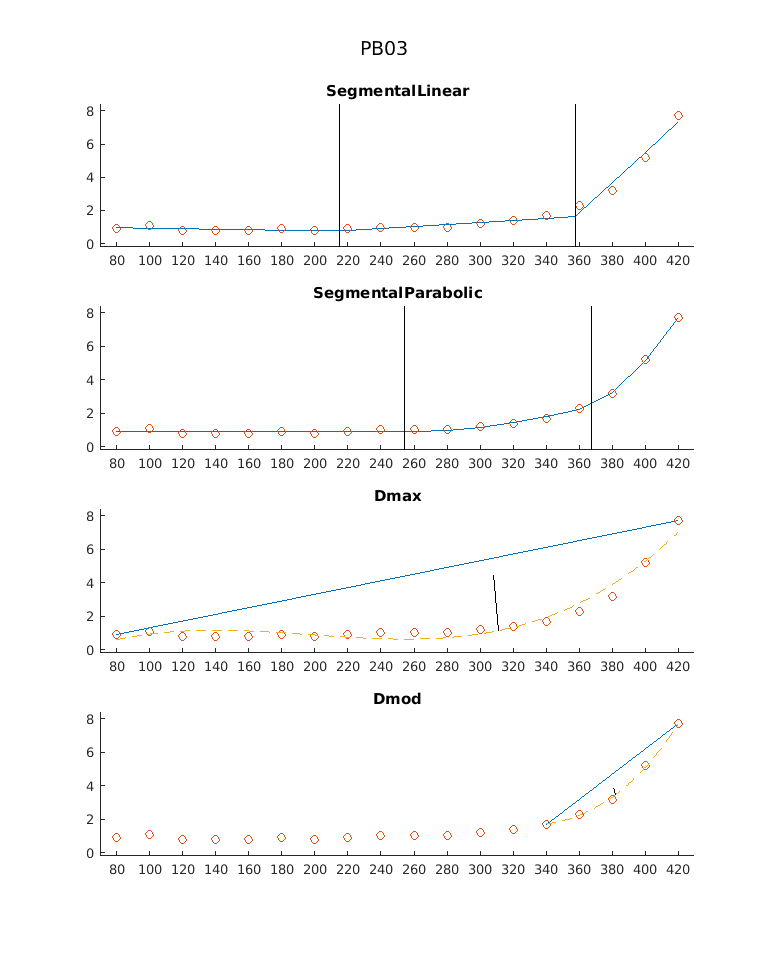
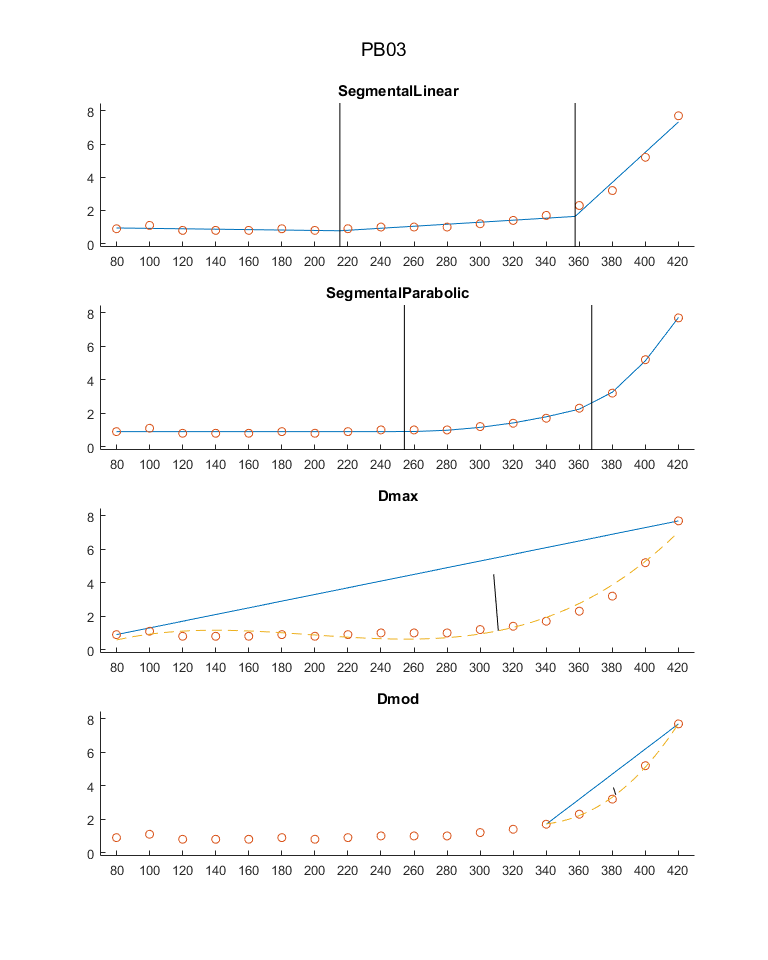
readme extended

diff --git a/lactate/LactateThreshold2.html b/lactate/LactateThreshold2.html
@@ -6,7 +6,7 @@
    <!--
 This HTML was auto-generated from MATLAB code.
 To make changes, update the MATLAB code and republish this document.
-      --><title>LactateThreshold2</title><meta name="generator" content="MATLAB 9.1"><link rel="schema.DC" href="http://purl.org/dc/elements/1.1/"><meta name="DC.date" content="2017-03-15"><meta name="DC.source" content="LactateThreshold2.m"><style type="text/css">
+      --><title>LactateThreshold2</title><meta name="generator" content="MATLAB 9.2"><link rel="schema.DC" href="http://purl.org/dc/elements/1.1/"><meta name="DC.date" content="2017-05-24"><meta name="DC.source" content="LactateThreshold2.m"><style type="text/css">
 html,body,div,span,applet,object,iframe,h1,h2,h3,h4,h5,h6,p,blockquote,pre,a,abbr,acronym,address,big,cite,code,del,dfn,em,font,img,ins,kbd,q,s,samp,small,strike,strong,sub,sup,tt,var,b,u,i,center,dl,dt,dd,ol,ul,li,fieldset,form,label,legend,table,caption,tbody,tfoot,thead,tr,th,td{margin:0;padding:0;border:0;outline:0;font-size:100%;vertical-align:baseline;background:transparent}body{line-height:1}ol,ul{list-style:none}blockquote,q{quotes:none}blockquote:before,blockquote:after,q:before,q:after{content:'';content:none}:focus{outine:0}ins{text-decoration:none}del{text-decoration:line-through}table{border-collapse:collapse;border-spacing:0}
 
 html { min-height:100%; margin-bottom:1px; }
@@ -70,7 +70,7 @@ table td { padding:7px 5px; text-align:left; vertical-align:top; border:1px soli
 close <span class="string">all</span>;
 </pre><h2 id="2">files</h2><pre class="codeinput">datafile = <span class="string">'Stufentest_laktat_leistung.csv'</span>;
 </pre><h2 id="3">import</h2><pre class="codeinput">data = importLactate(datafile);
-</pre><h2 id="4">data</h2><pre class="codeinput">subs = {<span class="string">'PB03'</span> ; <span class="string">'PB05'</span> ; <span class="string">'PB06'</span> ; <span class="string">'PB08'</span> ; <span class="string">'PB09'</span>};
+</pre><h2 id="4">data</h2><pre class="codeinput">subs = {<span class="string">'PB03'</span> ; <span class="string">'PB05'</span> ; <span class="string">'PB06'</span> ; <span class="string">'PB08'</span> ; <span class="string">'PB09'</span> ; <span class="string">'Average'</span>};
 steps = data(1,:)';
 PB03 = data(3,:)'; PB03 = PB03(~isnan(PB03));
 PB05 = data(5,:)'; PB05 = PB05(~isnan(PB05));
@@ -78,12 +78,11 @@ PB06 = data(6,:)'; PB06 = PB06(~isnan(PB06));
 PB08 = data(8,:)'; PB08 = PB08(~isnan(PB08));
 PB09 = data(9,:)'; PB09 = PB09(~isnan(PB09));
 subj_data = {PB03 , PB05 , PB06 , PB08 , PB09}';
-Used_LT = [380 ; 240 ; 260 ; 200 ; 220];
 </pre><h2 id="5">estimate thresholds</h2><pre class="codeinput">LT1 = zeros(size(subj_data));
-Mader = zeros(size(subj_data));
+Heck = zeros(size(subj_data));
 SegLin = zeros(size(subj_data));
 SegPara = zeros(size(subj_data));
-Guidetti = zeros(size(subj_data));
+Baldari = zeros(size(subj_data));
 Dickhuth = zeros(size(subj_data));
 Dmax = zeros(size(subj_data));
 Dmod = zeros(size(subj_data));
@@ -91,8 +90,8 @@ Dmod = zeros(size(subj_data));
     f = figure(<span class="string">'Name'</span>,subs{i});
     set(f, <span class="string">'Units'</span>, <span class="string">'normalized'</span>, <span class="string">'Position'</span>, [0.1, 0.1, 0.4, 0.8]);
     LT1(i) = lacT1(steps, subj_data{i});
-    Mader(i) = maderLT(steps, subj_data{i});
-    Guidetti(i) = iat(steps, subj_data{i});
+    Heck(i) = maderLT(steps, subj_data{i});
+    Baldari(i) = iat(steps, subj_data{i});
     Dickhuth(i) = dick(steps, subj_data{i});
     SegLin(i) = twoLTlin(steps, subj_data{i});
     SegPara(i) = twoLTpara(steps, subj_data{i});
@@ -100,37 +99,31 @@ Dmod = zeros(size(subj_data));
     Dmod(i) = dmod(steps, subj_data{i});
     suptitle(subs{i});
 <span class="keyword">end</span>
-</pre><img vspace="5" hspace="5" src="LactateThreshold2_01.png" alt=""> <img vspace="5" hspace="5" src="LactateThreshold2_02.png" alt=""> <img vspace="5" hspace="5" src="LactateThreshold2_03.png" alt=""> <img vspace="5" hspace="5" src="LactateThreshold2_04.png" alt=""> <img vspace="5" hspace="5" src="LactateThreshold2_05.png" alt=""> <h2 id="6">results</h2><pre class="codeinput">mean = mean([Mader,Guidetti,Dickhuth,SegLin,SegPara,Dmax,Dmod],2);
-std = std([Mader,Guidetti,Dickhuth,SegLin,SegPara,Dmax,Dmod],0,2);
-Mader = round(Mader);
-Guidetti = round(Guidetti);
-Dickhuth = round(Dickhuth);
-SegLin = round(SegLin);
-SegPara = round(SegPara);
-Dmax = round(Dmax);
-Dmod = round(Dmod);
+</pre><img vspace="5" hspace="5" src="LactateThreshold2_01.png" alt=""> <img vspace="5" hspace="5" src="LactateThreshold2_02.png" alt=""> <img vspace="5" hspace="5" src="LactateThreshold2_03.png" alt=""> <img vspace="5" hspace="5" src="LactateThreshold2_04.png" alt=""> <img vspace="5" hspace="5" src="LactateThreshold2_05.png" alt=""> <h2 id="6">results</h2><pre class="codeinput">Heck = [round(Heck) ; round(mean(Heck))];
+Baldari = [round(Baldari); round(mean(Baldari ))];
+Dickhuth = [round(Dickhuth); round(mean(Dickhuth))];
+SegLin = [round(SegLin); round(mean(SegLin))];
+SegPara = [round(SegPara); round(mean(SegPara))];
+Dmax = [round(Dmax); round(mean(Dmax))];
+Dmod = [round(Dmod); round(mean(Dmod))];
+mean = mean([Heck,Baldari,Dickhuth,SegLin,SegPara,Dmax,Dmod],2);
+std = std([Heck,Baldari,Dickhuth,SegLin,SegPara,Dmax,Dmod],0,2);
 mean_minus_std = round(mean - std);
 mean_plus_std = round(mean + std);
 mean = round(mean);
 std = round(std);
-fits = cell(size(subj_data));
-<span class="keyword">for</span> i = 1:length(subj_data)
-   <span class="keyword">if</span>  (mean_minus_std(i) &lt;= Used_LT(i)) &amp;&amp; (mean_plus_std(i) &gt;= Used_LT(i))
-       fits{i} = <span class="string">'x'</span>;
-   <span class="keyword">else</span>
-       fits{i} = <span class="string">''</span>;
-   <span class="keyword">end</span>
-<span class="keyword">end</span>
-T = table(Used_LT,Mader,Guidetti,Dickhuth,SegLin,SegPara,Dmax,Dmod,mean,std,mean_minus_std,mean_plus_std,fits,<span class="string">'RowNames'</span>,subs);
+<span class="comment">%T = table(Heck,Baldari,Dickhuth,SegLin,SegPara,Dmax,Dmod,mean,std,mean_minus_std,mean_plus_std,'RowNames',subs);</span>
+T = table(Heck,Baldari,Dickhuth,SegLin,SegPara,Dmax,Dmod,mean,std,<span class="string">'RowNames'</span>,subs);
 disp(T);
-</pre><pre class="codeoutput">            Used_LT    Mader    Guidetti    Dickhuth    SegLin    SegPara    Dmax    Dmod    mean    std    mean_minus_std    mean_plus_std    fits
-            _______    _____    ________    ________    ______    _______    ____    ____    ____    ___    ______________    _____________    ____
+</pre><pre class="codeoutput">               Heck    Baldari    Dickhuth    SegLin    SegPara    Dmax    Dmod    mean    std
+               ____    _______    ________    ______    _______    ____    ____    ____    ___
 
-    PB03    380        388      360         380         357       368        311     382     364     26     338               390              'x' 
-    PB05    240        283      260         272         253       236        225     276     258     21     236               279              'x' 
-    PB06    260        267      220         251         258       259        225     262     249     19     230               268              'x' 
-    PB08    200        215      180         203         219       214        194     224     207     16     191               222              'x' 
-    PB09    220        220      200         212         218       223        195     226     213     12     202               225              'x' 
+    PB03       388     360        380         357       368        311     382     364     26 
+    PB05       283     260        272         253       236        225     276     258     21 
+    PB06       267     220        251         258       259        225     262     249     19 
+    PB08       215     180        203         219       214        194     224     207     16 
+    PB09       220     200        212         218       223        195     226     213     12 
+    Average    275     244        263         261       260        230     274     258     16 
 
 </pre><h2 id="7">algorithms</h2><pre class="codeinput"><span class="keyword">function</span> pLT = maderLT(power, lactate)
 pLT = NaN;
@@ -327,7 +320,7 @@ p = x(1); a1 = x(2); a2 = x(3); d1 = x(4); d2 = x(5); <span class="comment">%#ok
     la = p + a1*(power-d1)^2 + 2*a1*(d2-d1)*(power-d2) + a2*(power-d2)^2;
 <span class="keyword">end</span>
 <span class="keyword">end</span>
-</pre><p class="footer"><br><a href="http://www.mathworks.com/products/matlab/">Published with MATLAB&reg; R2016b</a><br></p></div><!--
+</pre><p class="footer"><br><a href="http://www.mathworks.com/products/matlab/">Published with MATLAB&reg; R2017a</a><br></p></div><!--
 ##### SOURCE BEGIN #####
 clearvars;
 close all;
@@ -339,7 +332,7 @@ datafile = 'Stufentest_laktat_leistung.csv';
 data = importLactate(datafile);
 
 %% data
-subs = {'PB03' ; 'PB05' ; 'PB06' ; 'PB08' ; 'PB09'};
+subs = {'PB03' ; 'PB05' ; 'PB06' ; 'PB08' ; 'PB09' ; 'Average'};
 steps = data(1,:)';
 PB03 = data(3,:)'; PB03 = PB03(~isnan(PB03));
 PB05 = data(5,:)'; PB05 = PB05(~isnan(PB05));
@@ -347,14 +340,13 @@ PB06 = data(6,:)'; PB06 = PB06(~isnan(PB06));
 PB08 = data(8,:)'; PB08 = PB08(~isnan(PB08));
 PB09 = data(9,:)'; PB09 = PB09(~isnan(PB09));
 subj_data = {PB03 , PB05 , PB06 , PB08 , PB09}';
-Used_LT = [380 ; 240 ; 260 ; 200 ; 220];
 
 %% estimate thresholds
 LT1 = zeros(size(subj_data));
-Mader = zeros(size(subj_data));
+Heck = zeros(size(subj_data));
 SegLin = zeros(size(subj_data));
 SegPara = zeros(size(subj_data));
-Guidetti = zeros(size(subj_data));
+Baldari = zeros(size(subj_data));
 Dickhuth = zeros(size(subj_data));
 Dmax = zeros(size(subj_data));
 Dmod = zeros(size(subj_data));
@@ -362,8 +354,8 @@ for i = 1:length(subj_data)
     f = figure('Name',subs{i});
     set(f, 'Units', 'normalized', 'Position', [0.1, 0.1, 0.4, 0.8]);
     LT1(i) = lacT1(steps, subj_data{i});
-    Mader(i) = maderLT(steps, subj_data{i});
-    Guidetti(i) = iat(steps, subj_data{i});
+    Heck(i) = maderLT(steps, subj_data{i});
+    Baldari(i) = iat(steps, subj_data{i});
     Dickhuth(i) = dick(steps, subj_data{i});
     SegLin(i) = twoLTlin(steps, subj_data{i});
     SegPara(i) = twoLTpara(steps, subj_data{i});
@@ -373,28 +365,21 @@ for i = 1:length(subj_data)
 end
 
 %% results
-mean = mean([Mader,Guidetti,Dickhuth,SegLin,SegPara,Dmax,Dmod],2);
-std = std([Mader,Guidetti,Dickhuth,SegLin,SegPara,Dmax,Dmod],0,2);
-Mader = round(Mader);
-Guidetti = round(Guidetti);
-Dickhuth = round(Dickhuth);
-SegLin = round(SegLin);
-SegPara = round(SegPara);
-Dmax = round(Dmax);
-Dmod = round(Dmod);
+Heck = [round(Heck) ; round(mean(Heck))];
+Baldari = [round(Baldari); round(mean(Baldari ))];
+Dickhuth = [round(Dickhuth); round(mean(Dickhuth))];
+SegLin = [round(SegLin); round(mean(SegLin))];
+SegPara = [round(SegPara); round(mean(SegPara))];
+Dmax = [round(Dmax); round(mean(Dmax))];
+Dmod = [round(Dmod); round(mean(Dmod))];
+mean = mean([Heck,Baldari,Dickhuth,SegLin,SegPara,Dmax,Dmod],2);
+std = std([Heck,Baldari,Dickhuth,SegLin,SegPara,Dmax,Dmod],0,2);
 mean_minus_std = round(mean - std);
 mean_plus_std = round(mean + std);
 mean = round(mean);
 std = round(std);
-fits = cell(size(subj_data));
-for i = 1:length(subj_data)
-   if  (mean_minus_std(i) <= Used_LT(i)) && (mean_plus_std(i) >= Used_LT(i))
-       fits{i} = 'x';
-   else
-       fits{i} = '';
-   end       
-end
-T = table(Used_LT,Mader,Guidetti,Dickhuth,SegLin,SegPara,Dmax,Dmod,mean,std,mean_minus_std,mean_plus_std,fits,'RowNames',subs);
+%T = table(Heck,Baldari,Dickhuth,SegLin,SegPara,Dmax,Dmod,mean,std,mean_minus_std,mean_plus_std,'RowNames',subs);
+T = table(Heck,Baldari,Dickhuth,SegLin,SegPara,Dmax,Dmod,mean,std,'RowNames',subs);
 disp(T);
 
 %% algorithms

diff --git a/LactateThreshold2.m b/LactateThreshold2.m
@@ -16,14 +16,13 @@ PB06 = data(6,:)'; PB06 = PB06(~isnan(PB06));
 PB08 = data(8,:)'; PB08 = PB08(~isnan(PB08));
 PB09 = data(9,:)'; PB09 = PB09(~isnan(PB09));
 subj_data = {PB03 , PB05 , PB06 , PB08 , PB09}';
-Used_LT = [380 ; 240 ; 260 ; 200 ; 220];
 
 %% estimate thresholds
 LT1 = zeros(size(subj_data));
-Mader = zeros(size(subj_data));
+Heck = zeros(size(subj_data));
 SegLin = zeros(size(subj_data));
 SegPara = zeros(size(subj_data));
-Guidetti = zeros(size(subj_data));
+Baldari = zeros(size(subj_data));
 Dickhuth = zeros(size(subj_data));
 Dmax = zeros(size(subj_data));
 Dmod = zeros(size(subj_data));
@@ -31,8 +30,8 @@ for i = 1:length(subj_data)
     f = figure('Name',subs{i});
     set(f, 'Units', 'normalized', 'Position', [0.1, 0.1, 0.4, 0.8]);
     LT1(i) = lacT1(steps, subj_data{i});
-    Mader(i) = maderLT(steps, subj_data{i});
-    Guidetti(i) = iat(steps, subj_data{i});
+    Heck(i) = maderLT(steps, subj_data{i});
+    Baldari(i) = iat(steps, subj_data{i});
     Dickhuth(i) = dick(steps, subj_data{i});
     SegLin(i) = twoLTlin(steps, subj_data{i});
     SegPara(i) = twoLTpara(steps, subj_data{i});
@@ -42,29 +41,21 @@ for i = 1:length(subj_data)
 end
 
 %% results
-Used_LT = [Used_LT ; round(mean(Used_LT))];
-Mader = [round(Mader) ; round(mean(Mader))];
-Guidetti = [round(Guidetti); round(mean(Guidetti ))];
+Heck = [round(Heck) ; round(mean(Heck))];
+Baldari = [round(Baldari); round(mean(Baldari ))];
 Dickhuth = [round(Dickhuth); round(mean(Dickhuth))];
 SegLin = [round(SegLin); round(mean(SegLin))];
 SegPara = [round(SegPara); round(mean(SegPara))];
 Dmax = [round(Dmax); round(mean(Dmax))];
 Dmod = [round(Dmod); round(mean(Dmod))];
-mean = mean([Mader,Guidetti,Dickhuth,SegLin,SegPara,Dmax,Dmod],2);
-std = std([Mader,Guidetti,Dickhuth,SegLin,SegPara,Dmax,Dmod],0,2);
+mean = mean([Heck,Baldari,Dickhuth,SegLin,SegPara,Dmax,Dmod],2);
+std = std([Heck,Baldari,Dickhuth,SegLin,SegPara,Dmax,Dmod],0,2);
 mean_minus_std = round(mean - std);
 mean_plus_std = round(mean + std);
 mean = round(mean);
 std = round(std);
-fits = cell(size(subj_data));
-for i = 1:length(subj_data)+1
-   if  (mean_minus_std(i) <= Used_LT(i)) && (mean_plus_std(i) >= Used_LT(i))
-       fits{i} = 'x';
-   else
-       fits{i} = '';
-   end       
-end
-T = table(Used_LT,Mader,Guidetti,Dickhuth,SegLin,SegPara,Dmax,Dmod,mean,std,mean_minus_std,mean_plus_std,fits,'RowNames',subs);
+%T = table(Heck,Baldari,Dickhuth,SegLin,SegPara,Dmax,Dmod,mean,std,mean_minus_std,mean_plus_std,'RowNames',subs);
+T = table(Heck,Baldari,Dickhuth,SegLin,SegPara,Dmax,Dmod,mean,std,'RowNames',subs);
 disp(T);
 
 %% algorithms

diff --git a/README.md b/README.md
@@ -1,9 +1,32 @@
 # LactateThresholdAlgorithms
-Comparison of different algorithms/methods for lactate threshold detection.
+##Comparison of different algorithms/methods for lactate threshold detection.
 
-![Example](https://raw.githubusercontent.com//A-A-G/LactateThresholdAlgorithms/master/lactate/LactateThreshold2.png)
+###Methods:
+* Baldari: second increase of at least 0.5 mmol/l
+* Bishop: modified D-Max method
+* Cheng: D-Max method
+* Dennis: 3-segment linear regression
+* Dickhuth: AT + 1.5 mmol/l
+* Heck: 4 mmol/l-threshold
+* Morton: 3-segment parabolic regression
 
-Requiered:
+###Example:
+
+|         | Heck | Baldari | Dickhuth | SegLin | SegPara | Dmax | Dmod | mean | std |
+|---------|------|---------|----------|--------|---------|------|------|------|-----|
+| PB03    | 388  | 360     | 380      | 357    | 368     | 311  | 382  | 364  | 26  |
+| PB05    | 283  | 260     | 272      | 253    | 236     | 225  | 276  | 258  | 21  |
+| PB06    | 267  | 220     | 251      | 258    | 259     | 225  | 262  | 249  | 19  |
+| PB08    | 215  | 180     | 203      | 219    | 214     | 194  | 224  | 207  | 16  |
+| PB09    | 220  | 200     | 212      | 218    | 223     | 195  | 226  | 213  | 12  |
+| Average | 275  | 244     | 263      | 261    | 260     | 230  | 274  | 258  | 16  |
+
+![Example](https://raw.githubusercontent.com/A-A-G/LactateThresholdAlgorithms/master/lactate/LactateThreshold2_01.png)
+
+###Requiered:
 * MATLAB > 2016b (functions in script)
 * Optimization Toolbox (fmincon)
 * Bioinformatics Toolbox (suptitle, not necessary)
+
+###Citation:
+Send an [email](mailto:alexander@artigagonzalez.de) for more details.
